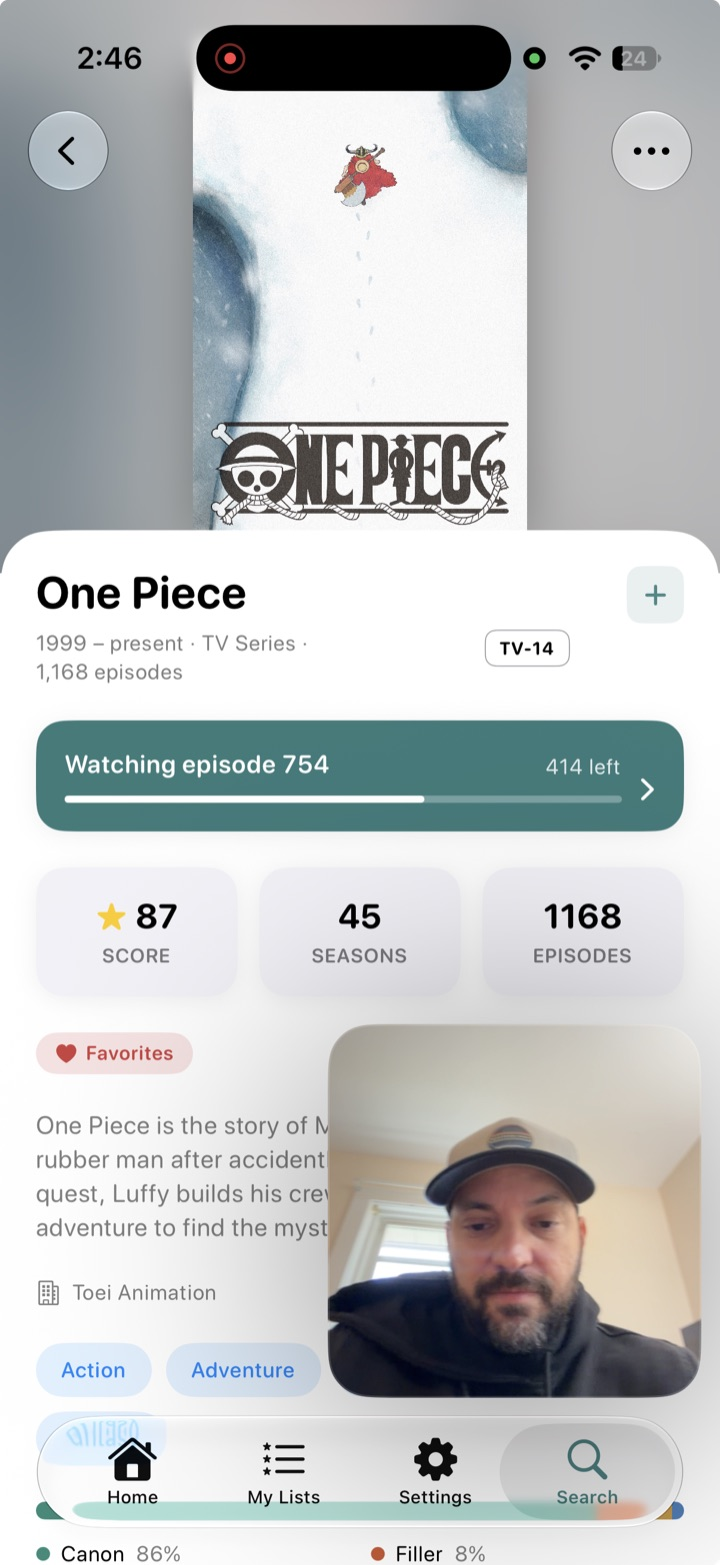
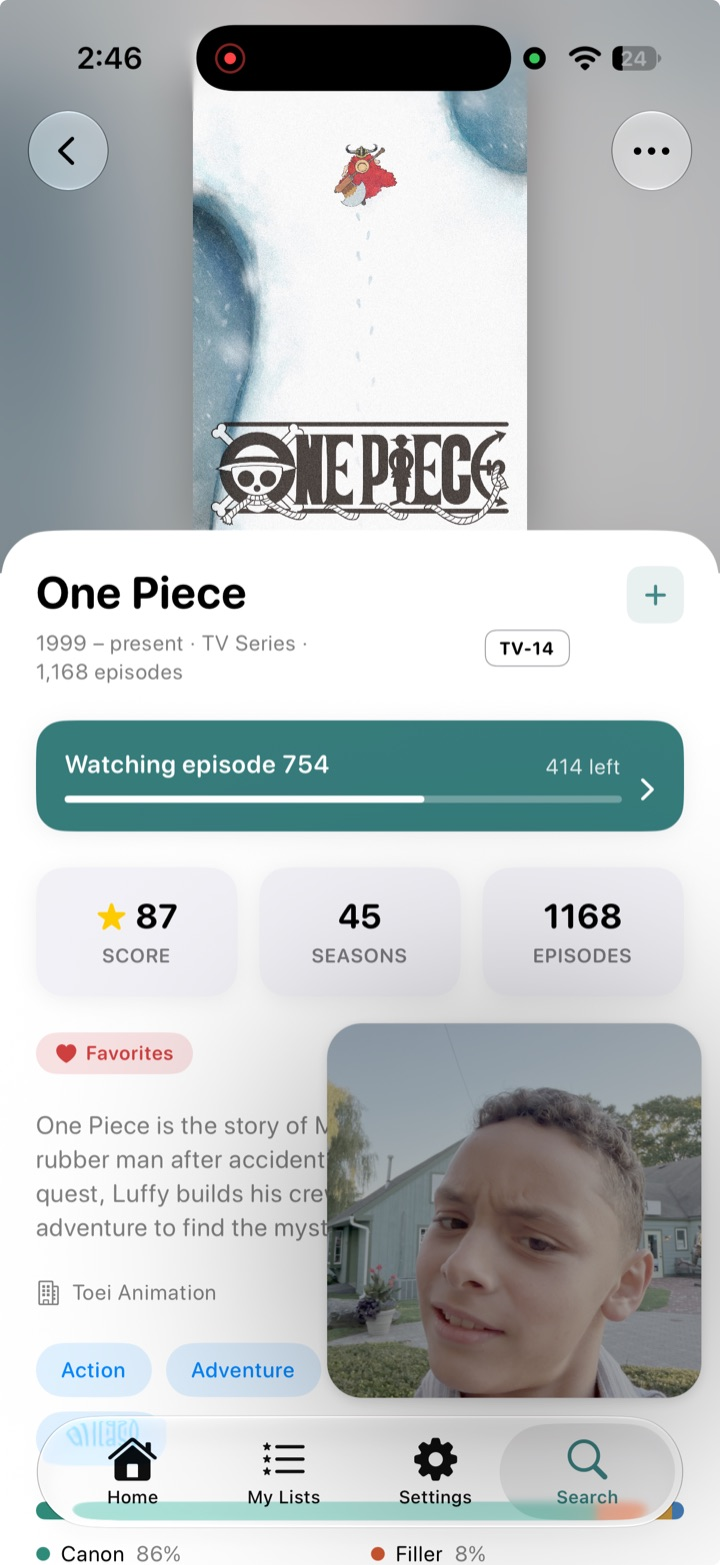
Stele page: new facecam image, privacy policy in a modal (#5)
* Stele page: swap the facecam image in the recording mockup

* Stele page: open the privacy policy in a modal, like Anime Fillers

---------

diff --git a/stele-app.html b/stele-app.html
@@ -200,6 +200,14 @@
         footer a { color: var(--stone); }
         footer a:hover { color: var(--ink); }
 
+        /* Privacy policy modal */
+        .privacy-overlay { display: none; position: fixed; inset: 0; background: rgba(28, 27, 25, 0.55); align-items: center; justify-content: center; padding: 5vh 5%; z-index: 100; }
+        .privacy-overlay.open { display: flex; }
+        .privacy-modal { position: relative; width: min(640px, 100%); height: min(80vh, 760px); background: var(--bg); border-radius: 20px; overflow: hidden; box-shadow: 0 30px 80px rgba(0, 0, 0, 0.35); }
+        .privacy-modal iframe { width: 100%; height: 100%; border: none; display: block; }
+        .privacy-modal-close { position: absolute; top: 12px; right: 12px; width: 32px; height: 32px; border: none; border-radius: 50%; background: rgba(28, 27, 25, 0.08); color: var(--ink); font-size: 1.1rem; line-height: 1; cursor: pointer; display: flex; align-items: center; justify-content: center; z-index: 1; }
+        .privacy-modal-close:hover { background: rgba(28, 27, 25, 0.16); }
+
         @media (max-width: 860px) {
             .nav-links a:not(.btn) { display: none; }
             .hero { grid-template-columns: 1fr; padding-top: 1.5rem; }
@@ -336,7 +344,7 @@
                 <div class="eyebrow">Privacy</div>
                 <h2 class="serif">Your recordings never leave your phone.</h2>
             </div>
-            <p>No uploads and no subscriptions. What you record stays on your device until you choose to share it. <a href="privacy/stele.html">Read the privacy policy</a>.</p>
+            <p>No uploads and no subscriptions. What you record stays on your device until you choose to share it. <a href="privacy/stele.html" class="privacy-link">Read the privacy policy</a>.</p>
         </div>
     </section>
 
@@ -349,8 +357,44 @@
     <footer>
         <div class="wrap">
             <span>&copy; 2026 hurutungo LLC</span>
-            <span><a href="index.html#apps">More from hurutungo</a> &middot; <a href="privacy/stele.html">Privacy Policy</a> &middot; <a href="mailto:hello@hurutungo.com">hello@hurutungo.com</a></span>
+            <span><a href="index.html#apps">More from hurutungo</a> &middot; <a href="privacy/stele.html" class="privacy-link">Privacy Policy</a> &middot; <a href="mailto:hello@hurutungo.com">hello@hurutungo.com</a></span>
         </div>
     </footer>
+    <div class="privacy-overlay" id="privacyOverlay">
+        <div class="privacy-modal">
+            <button class="privacy-modal-close" id="privacyClose" aria-label="Close privacy policy">&times;</button>
+            <iframe id="privacyFrame" title="Privacy Policy"></iframe>
+        </div>
+    </div>
+
+    <script>
+        (function () {
+            var links = document.querySelectorAll('.privacy-link');
+            var overlay = document.getElementById('privacyOverlay');
+            var frame = document.getElementById('privacyFrame');
+            var closeBtn = document.getElementById('privacyClose');
+
+            function open(e) {
+                e.preventDefault();
+                if (!frame.src) frame.src = e.currentTarget.getAttribute('href');
+                overlay.classList.add('open');
+                document.body.style.overflow = 'hidden';
+            }
+
+            function close() {
+                overlay.classList.remove('open');
+                document.body.style.overflow = '';
+            }
+
+            links.forEach(function (link) { link.addEventListener('click', open); });
+            closeBtn.addEventListener('click', close);
+            overlay.addEventListener('click', function (e) {
+                if (e.target === overlay) close();
+            });
+            document.addEventListener('keydown', function (e) {
+                if (e.key === 'Escape') close();
+            });
+        })();
+    </script>
 </body>
 </html>
